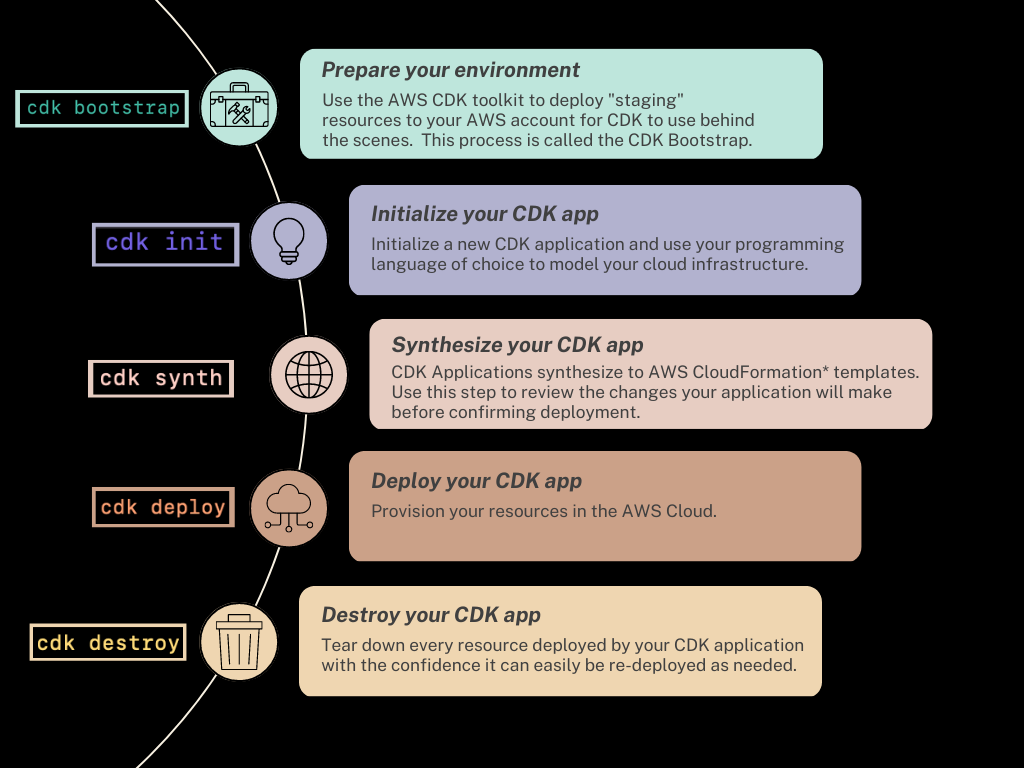
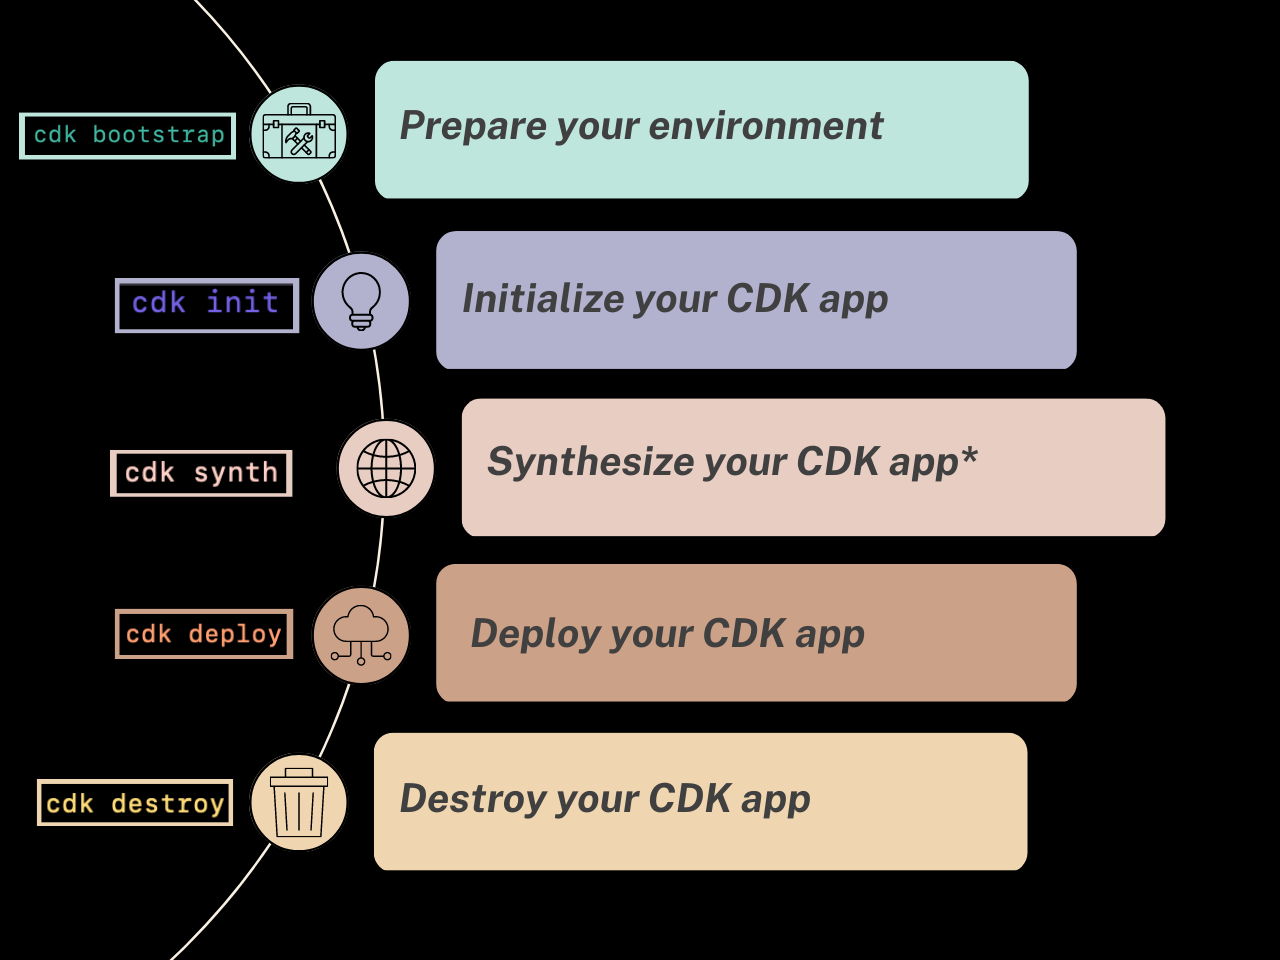
edit for length

diff --git a/README.md b/README.md
@@ -11,13 +11,13 @@ The [AWS Cloud Development Kit (AWS CDK)](https://aws.amazon.com/cdk/) is a fram
 
 ***In this tutorial you will learn:***
 - The value proposition of the AWS CDK
-- The building blocks of AWS CDK applications (Constructs, Apps, and Stacks)
+- The building blocks of AWS CDK applications (constructs, apps, and stacks)
 - The basic structure of AWS CDK projects
 - The lifecycle of a CDK application
 
 Once you understand what the AWS CDK is all about, you will use your new skills to deploy a website to the cloud!
 
-**Estimated Time to Complete**: 10--15 min (not including prerequisites)
+**Estimated Time to Complete**: 10--20 min (not including prerequisites)
 
 **Cost**: All AWS resources deployed in this tutorial fall within the [AWS Free Tier](https://aws.amazon.com/free/free-tier-faqs/). Make sure to follow clean-up instructions in *Step 7* of this tutorial.  
 
@@ -39,11 +39,7 @@ A CDK application defines a cloud application or cloud infrastructure configurat
 ## Constructs, stacks, and apps
 
 CDK applications are created with three essential parts: constructs, stacks, and apps.
-- **Constructs**: Constructs are the building blocks of your CDK application. A construct represents a *cloud component* to be deployed in your cloud environment.  
-
-A cloud component could be one resource - such as one [Amazon S3 bucket](https://aws.amazon.com/s3/) - or a cloud component could represent a higher-level abstraction such as an [application load balancer fronting containers running in the Amazon Elastic Container Service](https://docs.aws.amazon.com/solutions/latest/constructs/aws-alb-fargate.html).  
-
-CDK Constructs are powerful because they can be used to define common infrastructure patterns using best practices - once defined, CDK Constructs make best practice patterns easily sharable and repeatable.
+- **Constructs**: Constructs are the building blocks of your CDK application. A construct represents a [cloud component](https://docs.aws.amazon.com/cdk/v2/guide/constructs.html) to be deployed in your cloud environment.  
 - **Stacks**: Stacks are the unit of deployment in the AWS CDK. Every AWS resource defined using a CDK construct must be defined within the scope of a stack. When you deploy your CDK application, you will choose whether to deploy every stack in the application, only specific stacks or even multiple copies of the same stack.
 - **Apps**: A CDK application or app is a container for one or more stacks. 
 
@@ -57,27 +53,29 @@ Perhaps you want to host a [serverless web application](https://catalog.us-east-
 
 > :bulb:*Tip:* This application is serverless because it can be built and maintained without provisioning and maintaining servers. AWS abstracts away all server management.
 
-Maybe you like this serverless architecture a lot, and you know your team will want to deploy many similar architectures in the future. Or you may need to deploy your serverless application separately in several countries. Or maybe both. This sounds like a perfect use case for the AWS CDK! Below is an example of organizing your serverless web application into a CDK application using constructs, stacks, and apps.
+This serverless web application could easily be deployed using the AWS CDK.
 
 ![img](readme-assets/cdk_application_serverless_web_app_diagram.png)
-> :bulb:*Tip:* Apps, stacks, and constructs promote modularity and reuse. You could reuse the entire CDK application if you wanted to deploy a different website with the same architecture. You could reuse only the frontend stack if you just needed a static website with no data store or compute.  If an individual construct is perfectly configured to meet your security requirements, your can plug that construct into countless other stacks and applications.
+> :bulb:*Tip:* Apps, stacks, and constructs promote modularity and reuse. 
 
 ## CDK application lifecycle
 
-You are about to build your first CDK application! You will work with CDK using the command line interface. Familiarizing yourself with common CDK commands is a great way to familiarize yourself with the overall lifecycle of a CDK application. Take a moment to review the graphic below. These commands are the same for Windows, Linux, and macOS users.
+Familiarizing yourself with common CDK commands is a great way to familiarize yourself with the overall lifecycle of a CDK application. Take a moment to review the graphic below. These commands are the same for Windows, Linux, and macOS users.
 ![img](readme-assets/cdk_app_lifecycle.png)
 
-*\*note CloudFormation is out of scope for this tutorial but an important tool to familiarize yourself with to build infrastructure as code expertise. Check out the [CloudFormation User Guide](https://docs.aws.amazon.com/AWSCloudFormation/latest/UserGuide/Welcome.html) to learn more.*
+*\*CDK applications synthesize to files called CloudFormation templates. `cdk synth` is out of scope for this tutorial but will be covered in future courses. Check out the [CloudFormation User Guide](https://docs.aws.amazon.com/AWSCloudFormation/latest/UserGuide/Welcome.html) to learn more.*
 
 ## Build a CDK app
 
 It's time to get hands-on and deploy your first CDK application! You will use the AWS CDK to configure and deploy a simple static S3 website hosted in the AWS cloud. 
 > :bulb:*Tip:* Remember to review the list of pre-requisites at the beginning of the tutorial.
 
-> :bulb:*Tip:* If you get stuck you can see the code for the completed solution located in the `cdk_static_website_COMPLETED` directory within this repository. 
+> :bulb:*Tip:* If you get stuck you can see the code for the completed solution located in the `cdk_static_website_COMPLETED/` directory within this repository. 
 
 ## Step 1: Configure your development environment
 ### Install the AWS CDK toolkit
+Open your terminal or command line interface of choice.
+
 The AWS CDK Toolkit is a command-line utility that you will use to orchestrate your CDK applications. Windows, Mac, and Linux users can install the CDK Toolkit by running the following command:
 
 *Note: Windows users should run this command as an Administrator and Mac/Linux users should run this command using `sudo`*
@@ -125,7 +123,7 @@ You will create a new CDK project using a sample-app template and build your CDK
 
 ![img](readme-assets/cdk_init_EO_2.png)
 
-### Activateyour virtual environment and install the required modules
+### Activate your virtual environment and install the required modules
 A virtual environment allows you to install packages and run your Python application without impacting the Python installation on your system.  [Learn more about virtual environments](https://docs.python.org/3/tutorial/venv.html).
 
 Activate your virtual environment by running the following command. Make sure you are in your `cdk_static_website/` directory.
@@ -146,8 +144,6 @@ Once you have activated your virtual environment, you can install the required P
 
 Now you are ready to work with CDK!
 
-> :bulb:*Tip:* If you haven't already, now is an excellent time to open your IDE.  If you are using VS Code you can open the project directory in VS Code by running `code .` 
-
 ![image](readme-assets/cdk_python_project_structure.png)
 
 In initializing your project, the CDK Toolkit has created several pre-configured files and directories for you. [Read more about CDK project structure and components](https://cdkworkshop.com/30-python/20-create-project/300-structure.html).
@@ -157,7 +153,7 @@ In initializing your project, the CDK Toolkit has created several pre-configured
 - ***README.md***: A README describing your CDK application and basic deployment steps. You can find several useful tips and CDK commands in the README. Eventually, you should customize this README file to be specific to the CDK application you build.
 - The CDK toolkit also initialized a [Git repository](https://www.gitkraken.com/learn/git/tutorials/what-is-a-git-repository) in the project directory and populated a [.gitignore file](https://git-scm.com/docs/gitignore) that you can modify as needed.
 
-## Step 3:bootstrap your AWS account
+## Step 3: Bootstrap your AWS account
 
 An AWS environment is a combination of the AWS account and AWS region where you are provisioning your cloud resources. You prepare your AWS environment using a process called CDK Bootstrap. The CDK Bootstrap script will provision several resources in your AWS environment. CDK will rely on these resources behind the scenes when your applications are being deployed.
 
@@ -171,7 +167,7 @@ Bootstrap your AWS environment by running:
 
 ![img](readme-assets/bootstrap_existed_output.png)
 
-## Step 4:design your application
+## Step 4: Design your application
 
 Remember that the unit of deployment in the AWS CDK is called a ***stack***. Within your CDK stacks you will use Python to define the resources you want to provision in the AWS cloud. Get started by opening `cdk_static_website/cdk_static_website_stack.py`. The file in its current state looks like this:
 
@@ -217,9 +213,9 @@ class CdkStaticWebsiteStack(Stack):
 This block of code imports several CDK modules and then uses those modules to model cloud infrastructure. Specifically, you are defining the CdkStaticWebsiteStack. The CdkStaticWebsiteStack will include two constructs:
 - a [S3bucket construct](https://docs.aws.amazon.com/cdk/api/v1/python/aws_cdk.aws_s3/Bucket.html) configured with the necessary settings to support static website hosting. This construct will create a new S3 Bucket in your AWS cloud environment.
 > :rotating_light: *SECURITY ALERT* :rotating_light: Most S3 bucket deployments will be configured to set the block_public_access property to true. This project uses a special S3 bucket configuration designed for website hosting.  It is critically important that you do not store ANY files or objects in this S3 bucket other than files you want publicly available on a public website.
-- a [BucketDeployment construct](https://docs.aws.amazon.com/cdk/api/v2/python/aws_cdk.aws_s3_deployment/BucketDeployment.html) which is used to upload assets to your newly created bucket.  In this case, you use the BucketDeployment construct to upload the HTML files you want to serve from your bucket.
+- a [BucketDeployment construct](https://docs.aws.amazon.com/cdk/api/v2/python/aws_cdk.aws_s3_deployment/BucketDeployment.html) which is used to upload assets to your newly created bucket.  In this project, you are using BucketDeployment construct to upload the HTML files you want to serve from your bucket.
 
-> :bulb:*Tip:* In this tutorial you are copying and pasting existing code to get the feel of working with the CDK. When designing and coding your CDK applications, you will use the [CDK API documentation](https://docs.aws.amazon.com/cdk/api/v2/python/modules.html) to make decisions about what code to write. You can see examples of the CDK API documentation by clicking the S3Bucket and BucketDeployment construct links above.  
+> :bulb:*Tip:* When designing and coding your CDK applications, you will use the [CDK API documentation](https://docs.aws.amazon.com/cdk/api/v2/python/modules.html) to make decisions about what code to write. You can see examples of the CDK API documentation by clicking the S3Bucket and BucketDeployment construct links above.  
 
 Open the `app.py` file located in the root of your project directory.  
 
@@ -227,36 +223,14 @@ You do not need to make any changes to `app.py`, but look at what is happening h
 
 ![img](readme-assets/app_py_from_template.png)
 
-- On line 5, you are importing the CdkStaticWebsite stack you just defined.  
-- On line 8 you instantiate you application and on line 9 you add the CdkStaticWebsite stack to your application.
-- When `app.synth()` runs on line 11, CDK will synthesize your application and deploy your resources.
-
 In your static website app you are only deploying one stack, but here is an example of what `app.py` might look like for a production-scale CDK application with multiple stacks:
 
 ![img](readme-assets/production_app_py.png)
 
-## Step 5: Synthesize and deploy your application
+## Step 5: Deploy your application
 You have successfully designed your CDK application using constructs and stacks. It's time to get this website in the cloud!
 
-### CDK synth 
-
-Start by running the `cdk synth` command.  
-
-Run:
-
-`cdk synth`
-
-*Example Output:*
-
-![gif](readme-assets/synth_EO.gif)
-
-The output of `cdk synth` will be lengthy. The `cdk synth` command synthesizes your CDK code into a CloudFormation template. You don't need to know about CloudFormation templates for this tutorial, but note a new directory `cdk.out` has appeared in your project. This directory is where synthesized CloudFormation templates are stored.
-
-`cdk synth` will fail if you have syntax errors in your code - this is useful because you can correct errors before you try to deploy your resources rather than having a deployment fail. 
-
-### CDK deploy
-
-So far, you have done a lot of designing and planning, but you have not yet provisioned any cloud infrastructure. The `cdk deploy` command will trigger the actual deployment of resources in your account based on the code in your CDK app.  
+The `cdk deploy` command will trigger the deployment of resources in your account based on the code in your CDK app.  
 
 Run: 
 
@@ -267,9 +241,9 @@ Run:
 ![gif](readme-assets/deploy_EO.gif)
 > :rotating_light: *Security Alert:* :rotating_light: You will be asked to review any Identity and Access Management (IAM Changes) that will be made when your CDK application is deployed. This step adds awareness of security implications for your cloud environment resulting from this deployment.  In production, you should review these changes closely. Here you can select **y** to approve the changes and deploy the stack.   
 
-Upon successful deployment, you are given a *Stack ARN*. ARN stands for Amazon Resource Number and is a unique identifier within AWS.  If your application had deployed more than one stack, you would see multiple *Stack ARNs* displayed.  
+Upon successful deployment, you are given a *Stack ARN*. ARN stands for Amazon Resource Number and is a unique identifier within AWS. 
 
-You can open the AWS console and navigate to the CloudFormation console. The CloudFormation console allows you to view your newly deployed stack.
+You can open the AWS console and navigate to the CloudFormation console. The CloudFormation console allows you to view your newly deployed stack and the resources it holds.
 
 ![gif](readme-assets/cloudformation_console_example.gif)
 
@@ -277,14 +251,15 @@ You can open the AWS console and navigate to the CloudFormation console. The Clo
 
 ## Step 6:update your application
 
-Your CDK application deployment succeeded, and your S3 Website is live and running. Of course, you want to see the website in action! You can manually find the address of your new website using the S3 console within AWS, but that's a pain. Wouldn't getting the website address as an output once your stack is deployed be better?  
+Your CDK application deployment succeeded, and your S3 Website is live and running. You can manually find the address of your new website using the S3 console within AWS, but that's a pain. Wouldn't getting the website address as an output once your stack is deployed be better?  
 
 This is a great opportunity to practice iterative development and improve your application by making an update to your CDK code.  
 
 Open `cdk_static_website\cdk_static_website_stack.py` and make a few edits.
 
 You will import the Cfn output CDK module and use it to output information about the resources you deploy.
-- update the imports at the top of your file to include CfnOutput as an imported Python class: 
+
+Update the imports at the top of your file to include CfnOutput as an imported Python class: 
 ```
 from constructs import Construct
 from aws_cdk import ( 
@@ -295,11 +270,13 @@ from aws_cdk import (
     CfnOutput
 )
 ```
-- at the bottom of the file (after the S3 deployment construct) add:
+
+At the bottom of the file (after the S3 deployment construct) add:
 ```
 #output S3 bucket URL when stack is deployed
 CfnOutput(self, "S3 Website Url", value=static_website_bucket.bucket_website_url)
 ```
+
 Increase the security posture of your web app by enforcing access logging on your s3 bucket. Add a line of code to your S3 bucket construct. Replace your current bucket construct with a construct that enforces server access logging and deploys a second, private S3 Bucket for log storage.
 
 ```     
